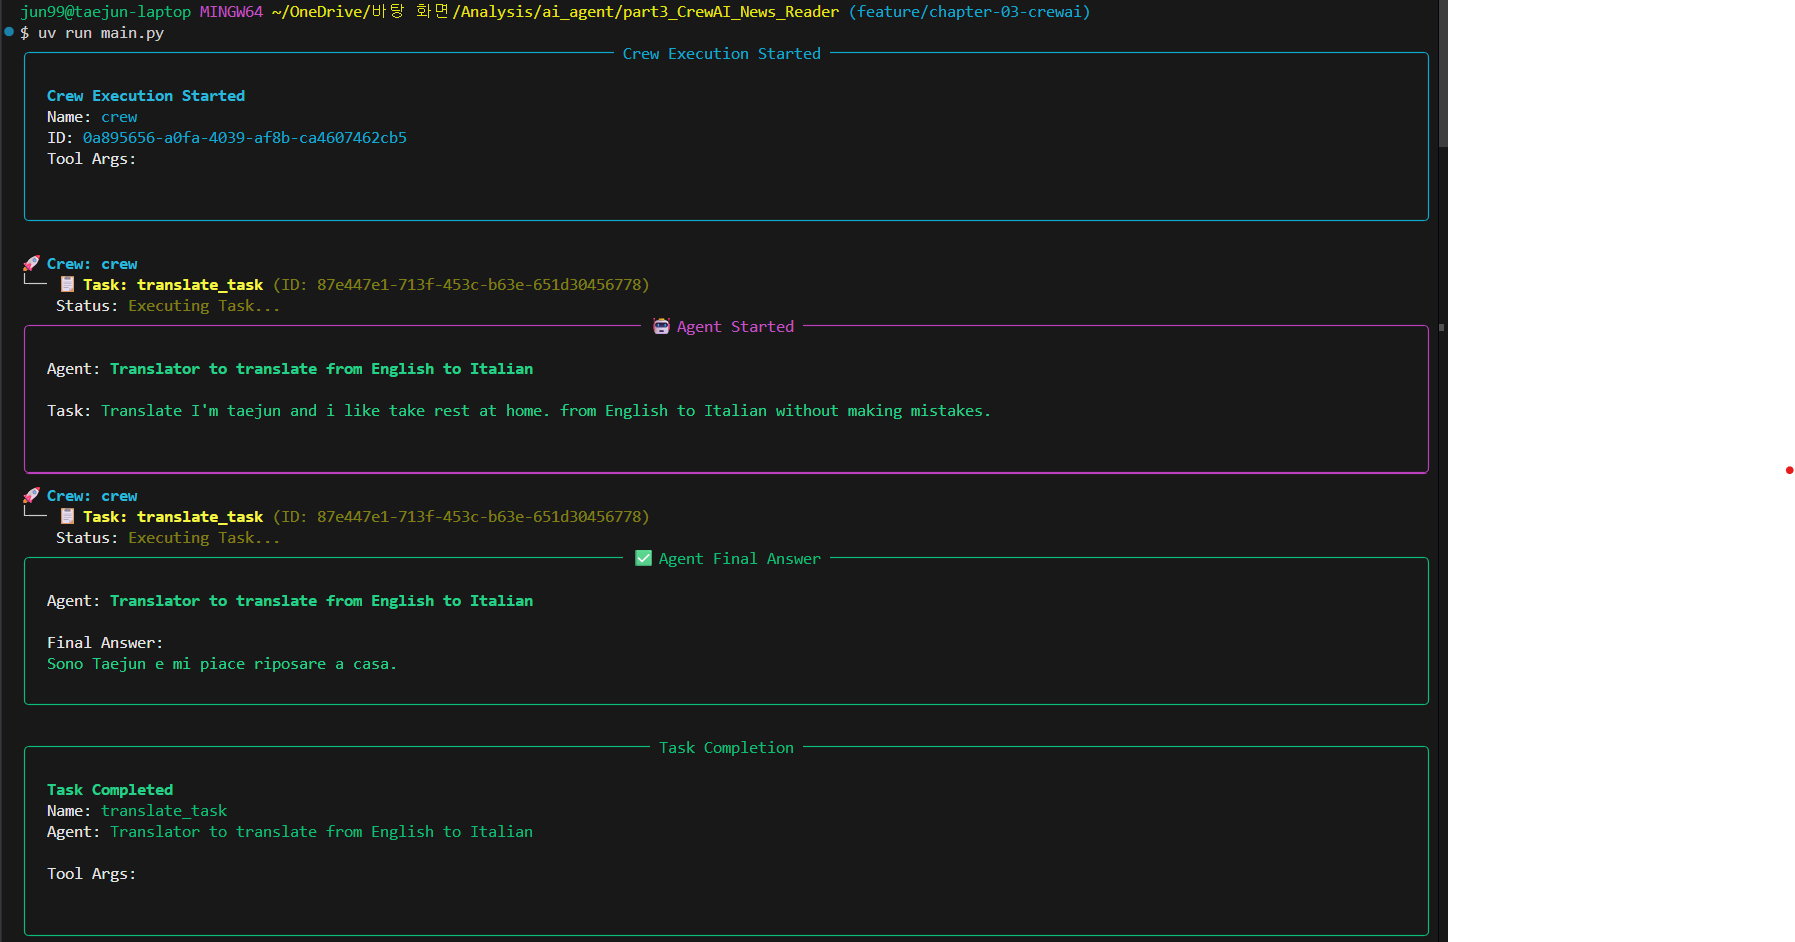
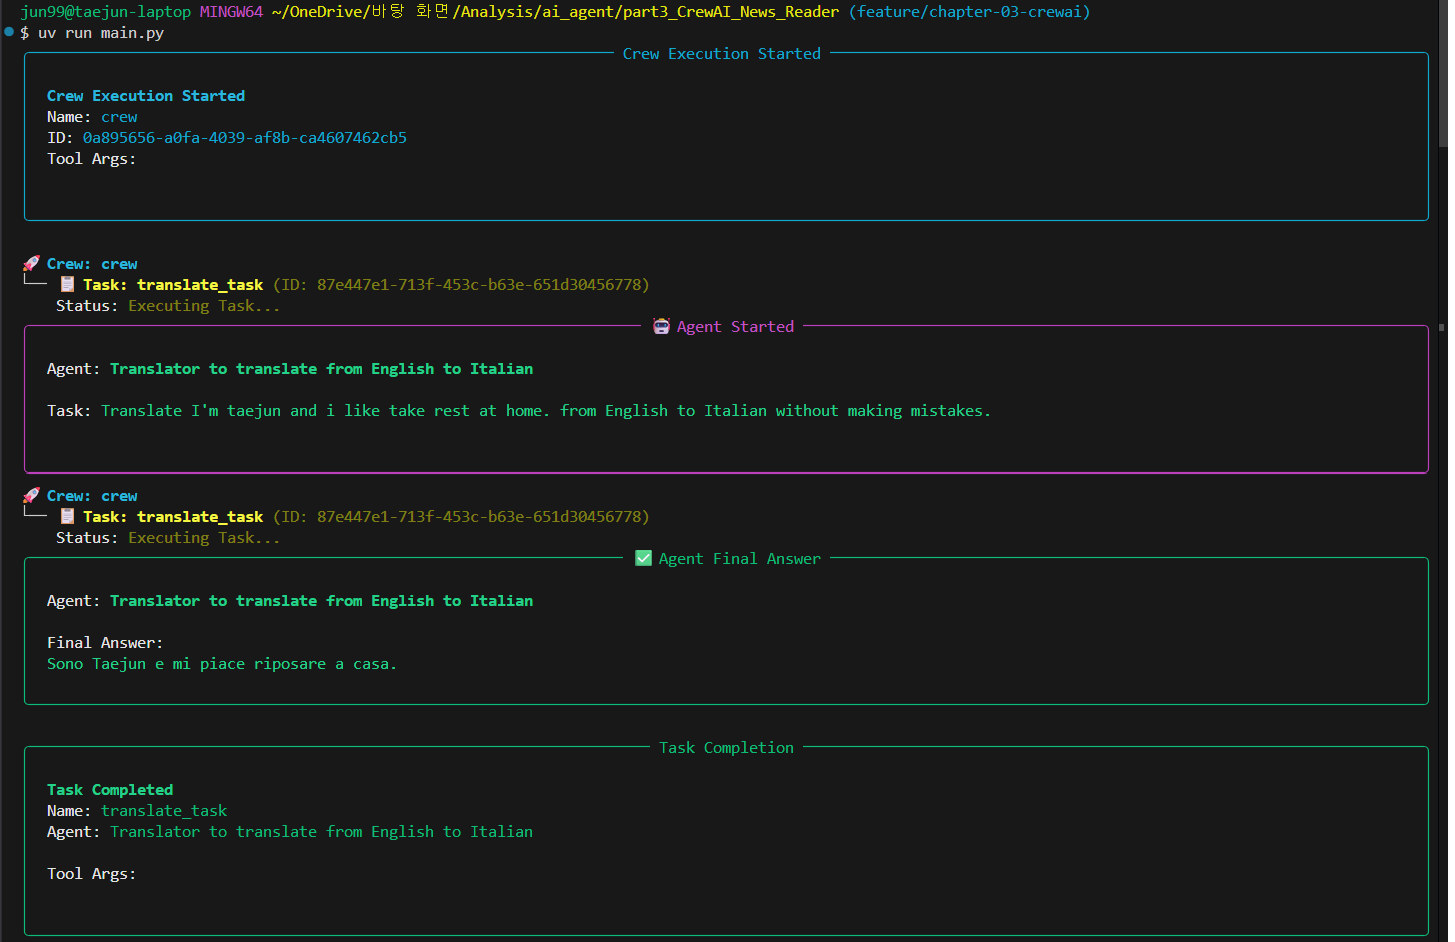
Refactor: 에이전트 역할 분리 및 번역 산출물 카운팅 로직 적용
- Tool 정의 방식 간소화: Docstring을 활용한 @tool 데코레이터 적용

- 에이전트 세분화: 단계별 에이전트 분리로 로그 가독성 확보

- Task 로직 변경: 초기 입력을 제외한 모든 번역 산출물에 대해 카운팅 수행

diff --git a/part3_CrewAI_News_Reader/main.py b/part3_CrewAI_News_Reader/main.py
@@ -3,8 +3,12 @@ import dotenv
 dotenv.load_dotenv()
 
 from crewai import Crew, Agent, Task
-from crewai.project import CrewBase, agent, task, crew
-
+# CrewBase가 프로젝트의 기본 클래스 역할
+# @CrewBase가 실행되면서 현재 파일(main.py)이 CrewAI 프로젝트로 인식됨
+# 같은 위치에 있는 config 폴더 내 yaml 파일들을 자동으로 불러옴
+# 읽어온 내용을 self.agents_config와 self.tasks_config라는 변수에 담아서 TranslatorCrew 클래스 안에 강제로 집어넣음
+from crewai.project import CrewBase, agent, task, crew 
+from tools import count_letters
 
 @CrewBase
 class TranslatorCrew:
@@ -12,10 +16,23 @@ class TranslatorCrew:
     # role은 agent가 어떤 역할을 하는지
     # goal은 agent가 달성하고자 하는 목표
     # backstory는 agent의 배경 이야기
+    
+    # 원래는 translator_agent 하나로 영어->이탈리아어, 이탈리아어->한국어 번역을 다 처리했음
+    # 이렇게 처리하면, 실행 후 터미널에서 확인할 때, 각 agent별로 메세지가 분리되지 않아서 결과 확인이 직관적이지 않음
+    # 그래서 분리함
+    # @agent
+    # def translator_agent(self):
+    #     return Agent(config = self.agents_config['translator_agent'],
+    #                  )
  
     @agent
-    def translator_agent(self):
-        return Agent(config = self.agents_config['translator_agent'],
+    def English_to_italian_agent(self):
+        return Agent(config = self.agents_config['English_to_italian_agent'], # type: ignore
+                     )
+        
+    @agent
+    def Italian_to_korean_agent(self):
+        return Agent(config = self.agents_config['Italian_to_korean_agent'], # type: ignore
                      )
 
     '''
@@ -26,10 +43,17 @@ class TranslatorCrew:
     config 폴더 만들고 agent.yaml, task.yaml 파일 만들어서 prompt 작성
     반드시 agent.yaml, task.yaml 파일명으로 만들어야 함
     '''
+    
+    @agent
+    def counter_agent(self):
+        return Agent(
+            config = self.agents_config['counter_agent'], # type: ignore
+            tools = [count_letters],       
+                     )
 
     @task
     def translate_task(self): # 여기선 description 작성하는데, task가 완료되었을 때 결과물이 어떤 형태인지 설명하는 역할
-        return Task(config=self.tasks_config['translate_task'])
+        return Task(config=self.tasks_config['translate_task']) # type: ignore
          
     '''
     Tasks.yaml 내 Description에 {sentence}라는 변수가 있는데, 
@@ -40,15 +64,19 @@ class TranslatorCrew:
     
     @task
     def retranslate_task(self): # 여기선 description 작성하는데, task가 완료되었을 때 결과물이 어떤 형태인지 설명하는 역할
-        return Task(config=self.tasks_config['retranslate_task'])
+        return Task(config=self.tasks_config['retranslate_task']) # type: ignore
+
+    @task
+    def count_task(self): # 여기선 description 작성하는데, task가 완료되었을 때 결과물이 어떤 형태인지 설명하는 역할
+        return Task(config=self.tasks_config['count_task']) # type: ignore
 
     @crew
     def assemble_crew(self):
         return Crew(
-            agents=self.agents, # agent 데코레이터가 붙은 메서드들을 agents로 지정
-            tasks=self.tasks, # task 데코레이터가 붙은 메서드들을 tasks로 지정
-            verbose=True
+            agents=self.agents, # type: ignore / agent 데코레이터가 붙은 메서드들을 agents로 지정 
+            tasks=self.tasks, # type: ignore / task 데코레이터가 붙은 메서드들을 tasks로 지정 
+            verbose=True # type: ignore / verbose=True로 지정하면, 터미널에 실행 과정이 상세히 출력됨
         )
         
 
-TranslatorCrew().assemble_crew().kickoff(inputs={'sentence':"I'm taejun and i like take rest at home."})
+TranslatorCrew().assemble_crew().kickoff(inputs={'sentence':"I'm taejun and i like take rest at home."}) # type: ignore / kickoff 메서드로 Crew 실행

diff --git a/part3_CrewAI_News_Reader/tools.py b/part3_CrewAI_News_Reader/tools.py
@@ -1,0 +1,14 @@
+# 문장 내 글자 수 세는 tool
+# CrewAI는 docstring을 기반으로 tool 기능 이해함. main.py에서 사용한 schema와 동일한 형식으로 작성 필요
+# 이것도 tool이기에 main.py에서 import해서 사용 가능
+from crewai.tools import tool
+
+
+@tool
+def count_letters(sentence: str):
+    """
+    This function is to count the amount of letters in a sentence.
+    The input is a 'sentence' string.
+    The output is a number.
+    """
+    return len(sentence)

diff --git a/part3_CrewAI_News_Reader/README.md b/part3_CrewAI_News_Reader/README.md
@@ -1,3 +1,36 @@
-![번역 결과](./images/result_01.png)
-![번역 결과2](./images/result_02.png)
-![번역 결과3](./images/result_03.png)
+# CrewAI News Reader Project
+
+## 🖥 실행 결과 로그 (Execution Logs)
+
+---
+
+### 📅 2025.12.26 (Step 1. 기본 번역 에이전트)
+기본적인 '영어 -> 이탈리아어 -> 한국어' 번역 및 글자 수 세기 기능 구현
+
+![결과1](result_01.png)
+*▲ 실행 초기 화면*
+
+![결과2](result_02.png)
+*▲ 번역 수행 로그*
+
+![결과3](result_03.png)
+*▲ 최종 결과 확인*
+
+<br>
+
+---
+
+### 📅 2025.12.30 (Step 2. 에이전트 분리 및 로직 개선)
+에이전트 역할 분리(영어 담당, 한국어 담당) 및 Context 기반 카운팅 정확도 향상
+
+![30일 결과1](20251230_agent변경 후 실행결과1.png)
+*▲ Step 2 agent분리 후 결과 실행 1*
+
+![30일 결과2](20251230_agent변경 후 실행결과2.png)
+*▲ Step 2 agent분리 후 결과 실행 2*
+
+![30일 결과3](20251230_agent변경 후 실행결과3.png)
+*▲ Step 2 첫번째 번역 실행 후 개수 세기 적용 결과*
+
+![30일 결과4](20251230_agent변경 후 실행결과4.png)
+*▲ Step 2 두번째 번역 실행 후 개수 세기 적용 결과*
